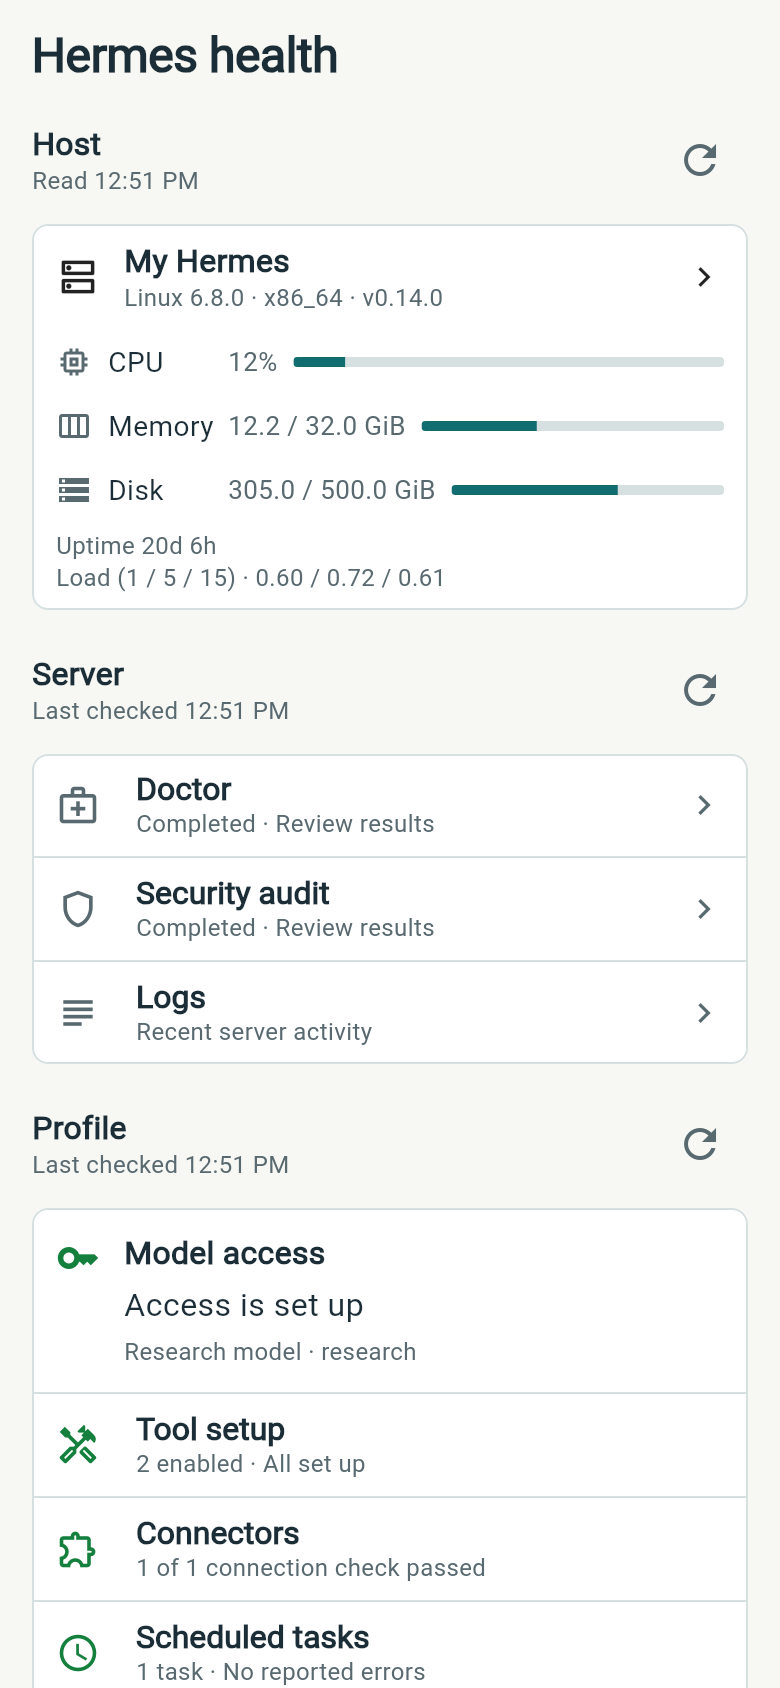
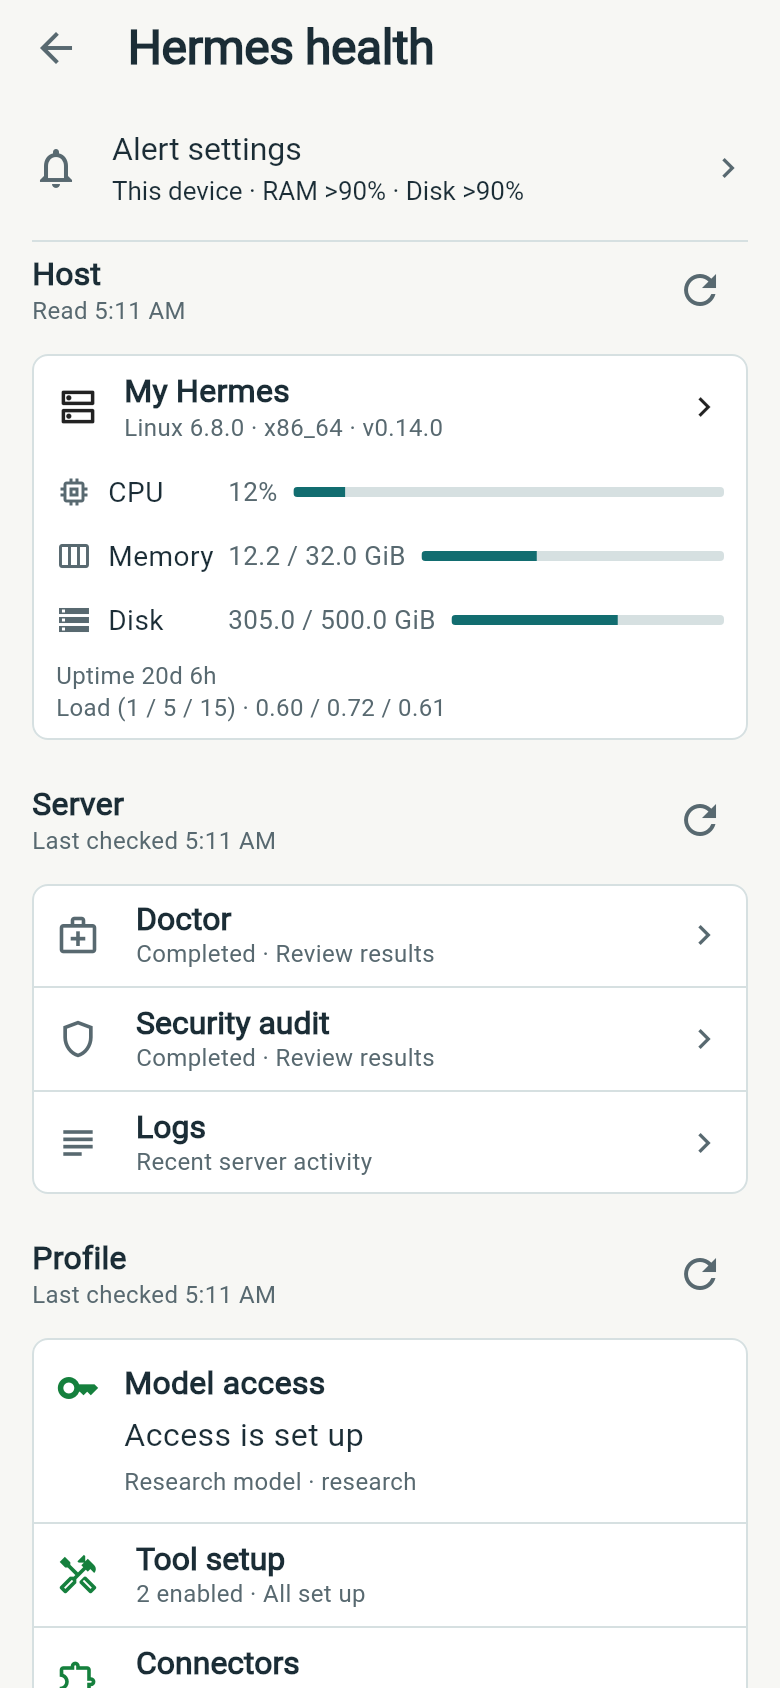
docs: fold alerts into Health and refresh app captures [skip ci]

diff --git a/health.html b/health.html
@@ -4,7 +4,7 @@
 <meta charset="utf-8">
 <meta name="viewport" content="width=device-width, initial-scale=1">
 <meta name="theme-color" content="#0c304a">
-<meta name="description" content="See host resources, run server diagnostics and check the selected profile. Health shows when each result was checked and links to settings that need attention.">
+<meta name="description" content="Check host resources, diagnostics and profiles. Inspect health alerts and set memory, disk and CPU warning and recovery thresholds.">
 <title>Hermes health · Wing</title>
 <link rel="icon" type="image/png" href="assets/wing.png">
 <link rel="stylesheet" href="styles.css">
@@ -39,7 +39,6 @@
 <a href="recents.html">Recents</a>
 <a href="live-work.html">Live work</a>
 <a href="results.html">Results</a>
-<a href="health-alerts.html">Alerts</a>
 <a href="health.html" aria-current="page">Health</a>
 <a href="administration.html">Administration</a>
 <a href="scheduled-tasks.html">Schedules</a>
@@ -58,7 +57,9 @@
 <a href="#host">Check CPU, memory and disk</a>
 <a href="#server">Run diagnostics and read logs</a>
 <a href="#profile">Check the selected profile</a>
-<a href="#alerts">Choose health alerts</a>
+<a href="#alerts">Inspect health alerts</a>
+<a href="#thresholds">Set warning and recovery thresholds</a>
+<a href="#monitoring">When monitoring is active</a>
 <a href="#limits">What the checks establish</a>
 </nav>
 </aside>
@@ -69,7 +70,7 @@
 <p>Missing measurements stay unavailable. If a refresh fails, the last reading keeps its timestamp.</p>
 <figure class="guide-shot guide-inline-shot ">
 <div class="app-frame">
-<a class="screenshot-link" data-screenshot href="assets/screenshots/health-light.png" aria-label="Enlarge screenshot: Wing Hermes health showing host resources, server diagnostics and profile checks"><img src="assets/screenshots/health-light.png" width="780" height="1688" alt="Wing Hermes health showing host resources, server diagnostics and profile checks" loading="lazy"></a>
+<a class="screenshot-link" data-screenshot href="assets/screenshots/health-light.png" aria-label="Enlarge screenshot: Wing Hermes health with Alert settings, host readings, server diagnostics and profile checks"><img src="assets/screenshots/health-light.png" width="780" height="1688" alt="Wing Hermes health with Alert settings, host readings, server diagnostics and profile checks" loading="lazy"></a>
 </div>
 </figure>
 </section>
@@ -88,9 +89,30 @@
 </figure>
 </section>
 <section id="alerts" aria-labelledby="alerts-title">
-<h2 id="alerts-title">Choose health alerts</h2>
-<p>Open Alert settings to choose resource thresholds and the profile problems Wing should surface. A bell on any screen keeps unresolved issues within reach.</p>
-<a class="text-link" href="health-alerts.html">Warning thresholds, issue details and monitoring limits</a>
+<h2 id="alerts-title">Inspect an issue from any screen</h2>
+<p>A bell appears when Wing has a current health issue. Tap it to see the affected connection, the finding and the reading that triggered it. Browse multiple issues in severity order, then open Hermes health to investigate.</p>
+<p>Closing the details or dismissing a brief notice leaves the issue in the bell. Recovery removes it; a recurrence can alert you again.</p>
+<figure class="guide-shot guide-inline-shot">
+<div class="app-frame">
+<a class="screenshot-link" data-screenshot href="assets/screenshots/health-alerts-light.png" aria-label="Enlarge screenshot: Wing health alert showing critical memory pressure, the triggering reading and a link to Hermes health"><img src="assets/screenshots/health-alerts-light.png" width="780" height="1688" alt="Wing health alert showing critical memory pressure, the triggering reading and a link to Hermes health" loading="lazy"></a>
+</div>
+</figure>
+</section>
+<section id="thresholds" aria-labelledby="thresholds-title">
+<h2 id="thresholds-title">Choose when resource usage needs attention</h2>
+<p>Open <strong>Hermes health → Alert settings</strong>. Set separate warning and recovery percentages and durations for memory, disk and CPU. Valid edits save automatically on this device.</p>
+<p>Memory and disk warnings start above 90% for two minutes and clear below 85% for two minutes. CPU warnings are off initially. Native Hermes critical-pressure alerts have separate toggles and can alert immediately.</p>
+<figure class="guide-shot guide-inline-shot">
+<div class="app-frame">
+<a class="screenshot-link" data-screenshot href="assets/screenshots/alert-thresholds-light.png" aria-label="Enlarge screenshot: Wing memory alert editor with independent warning, recovery and native critical-pressure controls"><img src="assets/screenshots/alert-thresholds-light.png" width="780" height="1688" alt="Wing memory alert editor with independent warning, recovery and native critical-pressure controls" loading="lazy"></a>
+</div>
+</figure>
+</section>
+<section id="monitoring" aria-labelledby="monitoring-title">
+<h2 id="monitoring-title">Know when Wing is checking</h2>
+<p>Checks run while Wing is open, or while its existing background task monitor is active for ongoing work on that connection. Alerts do not keep a separate monitoring service alive.</p>
+<p>Wing also surfaces observed profile access, connector and task problems. A connection notice appears when automatic recovery has failed and needs your help. Doctor and security-audit findings stay in Health rather than generating alerts.</p>
+<p>If readings become unavailable, an unresolved issue stays marked as last known. Open Health for a fresh check. These are in-app alerts, not an always-on server monitoring service or Android push notifications.</p>
 </section>
 <section id="limits" aria-labelledby="limits-title">
 <h2 id="limits-title">What the checks establish</h2>

diff --git a/index.html b/index.html
@@ -219,19 +219,20 @@
 </div>
 </div>
 </section>
-<section class="control-section page-width section-space" aria-labelledby="control-title">
+<section class="control-section page-width section-space" id="health" aria-labelledby="control-title">
 <div class="section-heading">
-<h2 id="control-title">Health checks and<br> profile settings</h2>
+<h2 id="control-title">Health and<br> profile settings</h2>
 </div>
 <div class="control-features">
 <article>
 <div class="control-copy">
 <h3>Check Hermes health</h3>
-<p>Check CPU, memory and disk usage. Run diagnostics, read server logs, and check model access, tool setup and connectors for each profile.</p>
+<p>Check CPU, memory and disk usage, run server diagnostics, and check model access, tools and connectors for each profile.</p>
+<p>Tap the bell to inspect resource pressure and profile problems. Choose warning and recovery thresholds in Health’s Alert settings.</p>
 </div>
 <figure class="guide-shot ">
 <div class="app-frame">
-<a class="screenshot-link" data-screenshot href="assets/screenshots/health-light.png" aria-label="Enlarge screenshot: Wing Health with host resources, server diagnostics and profile checks"><img src="assets/screenshots/health-light.png" width="780" height="1688" alt="Wing Health with host resources, server diagnostics and profile checks" loading="lazy"></a>
+<a class="screenshot-link" data-screenshot href="assets/screenshots/health-light.png" aria-label="Enlarge screenshot: Wing Health with Alert settings, host readings, server diagnostics and profile checks"><img src="assets/screenshots/health-light.png" width="780" height="1688" alt="Wing Health with Alert settings, host readings, server diagnostics and profile checks" loading="lazy"></a>
 </div>
 </figure>
 <a class="text-link" href="health.html">Explore Health</a>
@@ -249,34 +250,6 @@
 <a class="text-link" href="administration.html">Explore Administration</a>
 </article>
 </div>
-</section>
-<section class="page-width section-space" id="alerts" aria-labelledby="alerts-title">
-<div class="section-heading"><h2 id="alerts-title">Health alerts</h2></div>
-<div class="feature-stories feature-pair">
-<article class="feature-story">
-<div class="feature-copy">
-<h3>See the issue and what triggered it</h3>
-<p>Tap the bell to inspect resource pressure or an observed profile problem. See the affected connection and triggering reading, then open Hermes health to investigate. Resolved issues leave the bell automatically.</p>
-</div>
-<figure class="guide-shot">
-<div class="app-frame">
-<a class="screenshot-link" data-screenshot href="assets/screenshots/health-alerts-light.png" aria-label="Enlarge screenshot: Wing health alert with a triggering memory reading and Health action"><img src="assets/screenshots/health-alerts-light.png" width="780" height="1688" alt="Wing health alert with a triggering memory reading and Health action" loading="lazy"></a>
-</div>
-</figure>
-</article><article class="feature-story">
-<div class="feature-copy">
-<h3>Set warning and recovery thresholds</h3>
-<p>Choose memory, disk and CPU thresholds and how long usage must stay above or below them. Native Hermes critical-pressure alerts have separate controls. Valid edits save automatically on your phone.</p>
-</div>
-<figure class="guide-shot">
-<div class="app-frame">
-<a class="screenshot-link" data-screenshot href="assets/screenshots/alert-thresholds-light.png" aria-label="Enlarge screenshot: Wing memory thresholds with separate warning and recovery settings"><img src="assets/screenshots/alert-thresholds-light.png" width="780" height="1688" alt="Wing memory thresholds with separate warning and recovery settings" loading="lazy"></a>
-</div>
-</figure>
-</article>
-</div>
-<p class="analytics-note">Checks run while Wing is open or its background task monitor is active for ongoing work.</p>
-<div class="section-more"><a class="text-link" href="health-alerts.html">Explore health alerts</a></div>
 </section>
 <section class="analytics-section page-width section-space" id="analytics" aria-labelledby="analytics-title">
 <div class="section-heading">

diff --git a/recents.html b/recents.html
@@ -39,7 +39,6 @@
 <a href="recents.html" aria-current="page">Recents</a>
 <a href="live-work.html">Live work</a>
 <a href="results.html">Results</a>
-<a href="health-alerts.html">Alerts</a>
 <a href="health.html">Health</a>
 <a href="administration.html">Administration</a>
 <a href="scheduled-tasks.html">Schedules</a>
@@ -55,7 +54,7 @@
 <a href="#view">Find running work and chats waiting for you</a>
 <a href="#switch">Switch chats with two fingers</a>
 <a href="#attention">Notice replies while you work elsewhere</a>
-<a href="#navigation">Use the menu or return to your list</a>
+<a href="#navigation">Return to your Recents list</a>
 </nav></aside>
 <div class="guide-copy">
 <section id="view" aria-labelledby="view-title">
@@ -81,8 +80,7 @@
 <p>A soft edge cue points toward another conversation with a new reply. Amber indicates a confirmed request for your input. You can check that chat without returning to the list.</p>
 </section>
 <section id="navigation" aria-labelledby="navigation-title">
-<h2 id="navigation-title">Use the menu or return to your list</h2>
-<p>The chat actions menu also offers previous, next and <strong>Choose recent conversation</strong>. Gesture navigation is optional.</p>
+<h2 id="navigation-title">Return to your Recents list</h2>
 <p>Back closes the card stack first. Back again returns to Recents with your filter preserved. You can open Recents directly from Wing's Android launcher shortcut menu.</p>
 </section>
 </div>

diff --git a/administration.html b/administration.html
@@ -39,7 +39,6 @@
 <a href="recents.html">Recents</a>
 <a href="live-work.html">Live work</a>
 <a href="results.html">Results</a>
-<a href="health-alerts.html">Alerts</a>
 <a href="health.html">Health</a>
 <a href="administration.html" aria-current="page">Administration</a>
 <a href="scheduled-tasks.html">Schedules</a>

diff --git a/live-work.html b/live-work.html
@@ -39,7 +39,6 @@
 <a href="recents.html">Recents</a>
 <a href="live-work.html" aria-current="page">Live work</a>
 <a href="results.html">Results</a>
-<a href="health-alerts.html">Alerts</a>
 <a href="health.html">Health</a>
 <a href="administration.html">Administration</a>
 <a href="scheduled-tasks.html">Schedules</a>

diff --git a/results.html b/results.html
@@ -39,7 +39,6 @@
 <a href="recents.html">Recents</a>
 <a href="live-work.html">Live work</a>
 <a href="results.html" aria-current="page">Results</a>
-<a href="health-alerts.html">Alerts</a>
 <a href="health.html">Health</a>
 <a href="administration.html">Administration</a>
 <a href="scheduled-tasks.html">Schedules</a>

diff --git a/scheduled-tasks.html b/scheduled-tasks.html
@@ -39,7 +39,6 @@
 <a href="recents.html">Recents</a>
 <a href="live-work.html">Live work</a>
 <a href="results.html">Results</a>
-<a href="health-alerts.html">Alerts</a>
 <a href="health.html">Health</a>
 <a href="administration.html">Administration</a>
 <a href="scheduled-tasks.html" aria-current="page">Schedules</a>

diff --git a/bots.html b/bots.html
@@ -39,7 +39,6 @@
 <a href="recents.html">Recents</a>
 <a href="live-work.html">Live work</a>
 <a href="results.html">Results</a>
-<a href="health-alerts.html">Alerts</a>
 <a href="health.html">Health</a>
 <a href="administration.html">Administration</a>
 <a href="scheduled-tasks.html">Schedules</a>

diff --git a/get-started.html b/get-started.html
@@ -39,7 +39,6 @@
 <a href="recents.html">Recents</a>
 <a href="live-work.html">Live work</a>
 <a href="results.html">Results</a>
-<a href="health-alerts.html">Alerts</a>
 <a href="health.html">Health</a>
 <a href="administration.html">Administration</a>
 <a href="scheduled-tasks.html">Schedules</a>

diff --git a/usage.html b/usage.html
@@ -39,7 +39,6 @@
 <a href="recents.html">Recents</a>
 <a href="live-work.html">Live work</a>
 <a href="results.html">Results</a>
-<a href="health-alerts.html">Alerts</a>
 <a href="health.html">Health</a>
 <a href="administration.html">Administration</a>
 <a href="scheduled-tasks.html">Schedules</a>

diff --git a/workspaces.html b/workspaces.html
@@ -39,7 +39,6 @@
 <a href="recents.html">Recents</a>
 <a href="live-work.html">Live work</a>
 <a href="results.html">Results</a>
-<a href="health-alerts.html">Alerts</a>
 <a href="health.html">Health</a>
 <a href="administration.html">Administration</a>
 <a href="scheduled-tasks.html">Schedules</a>
